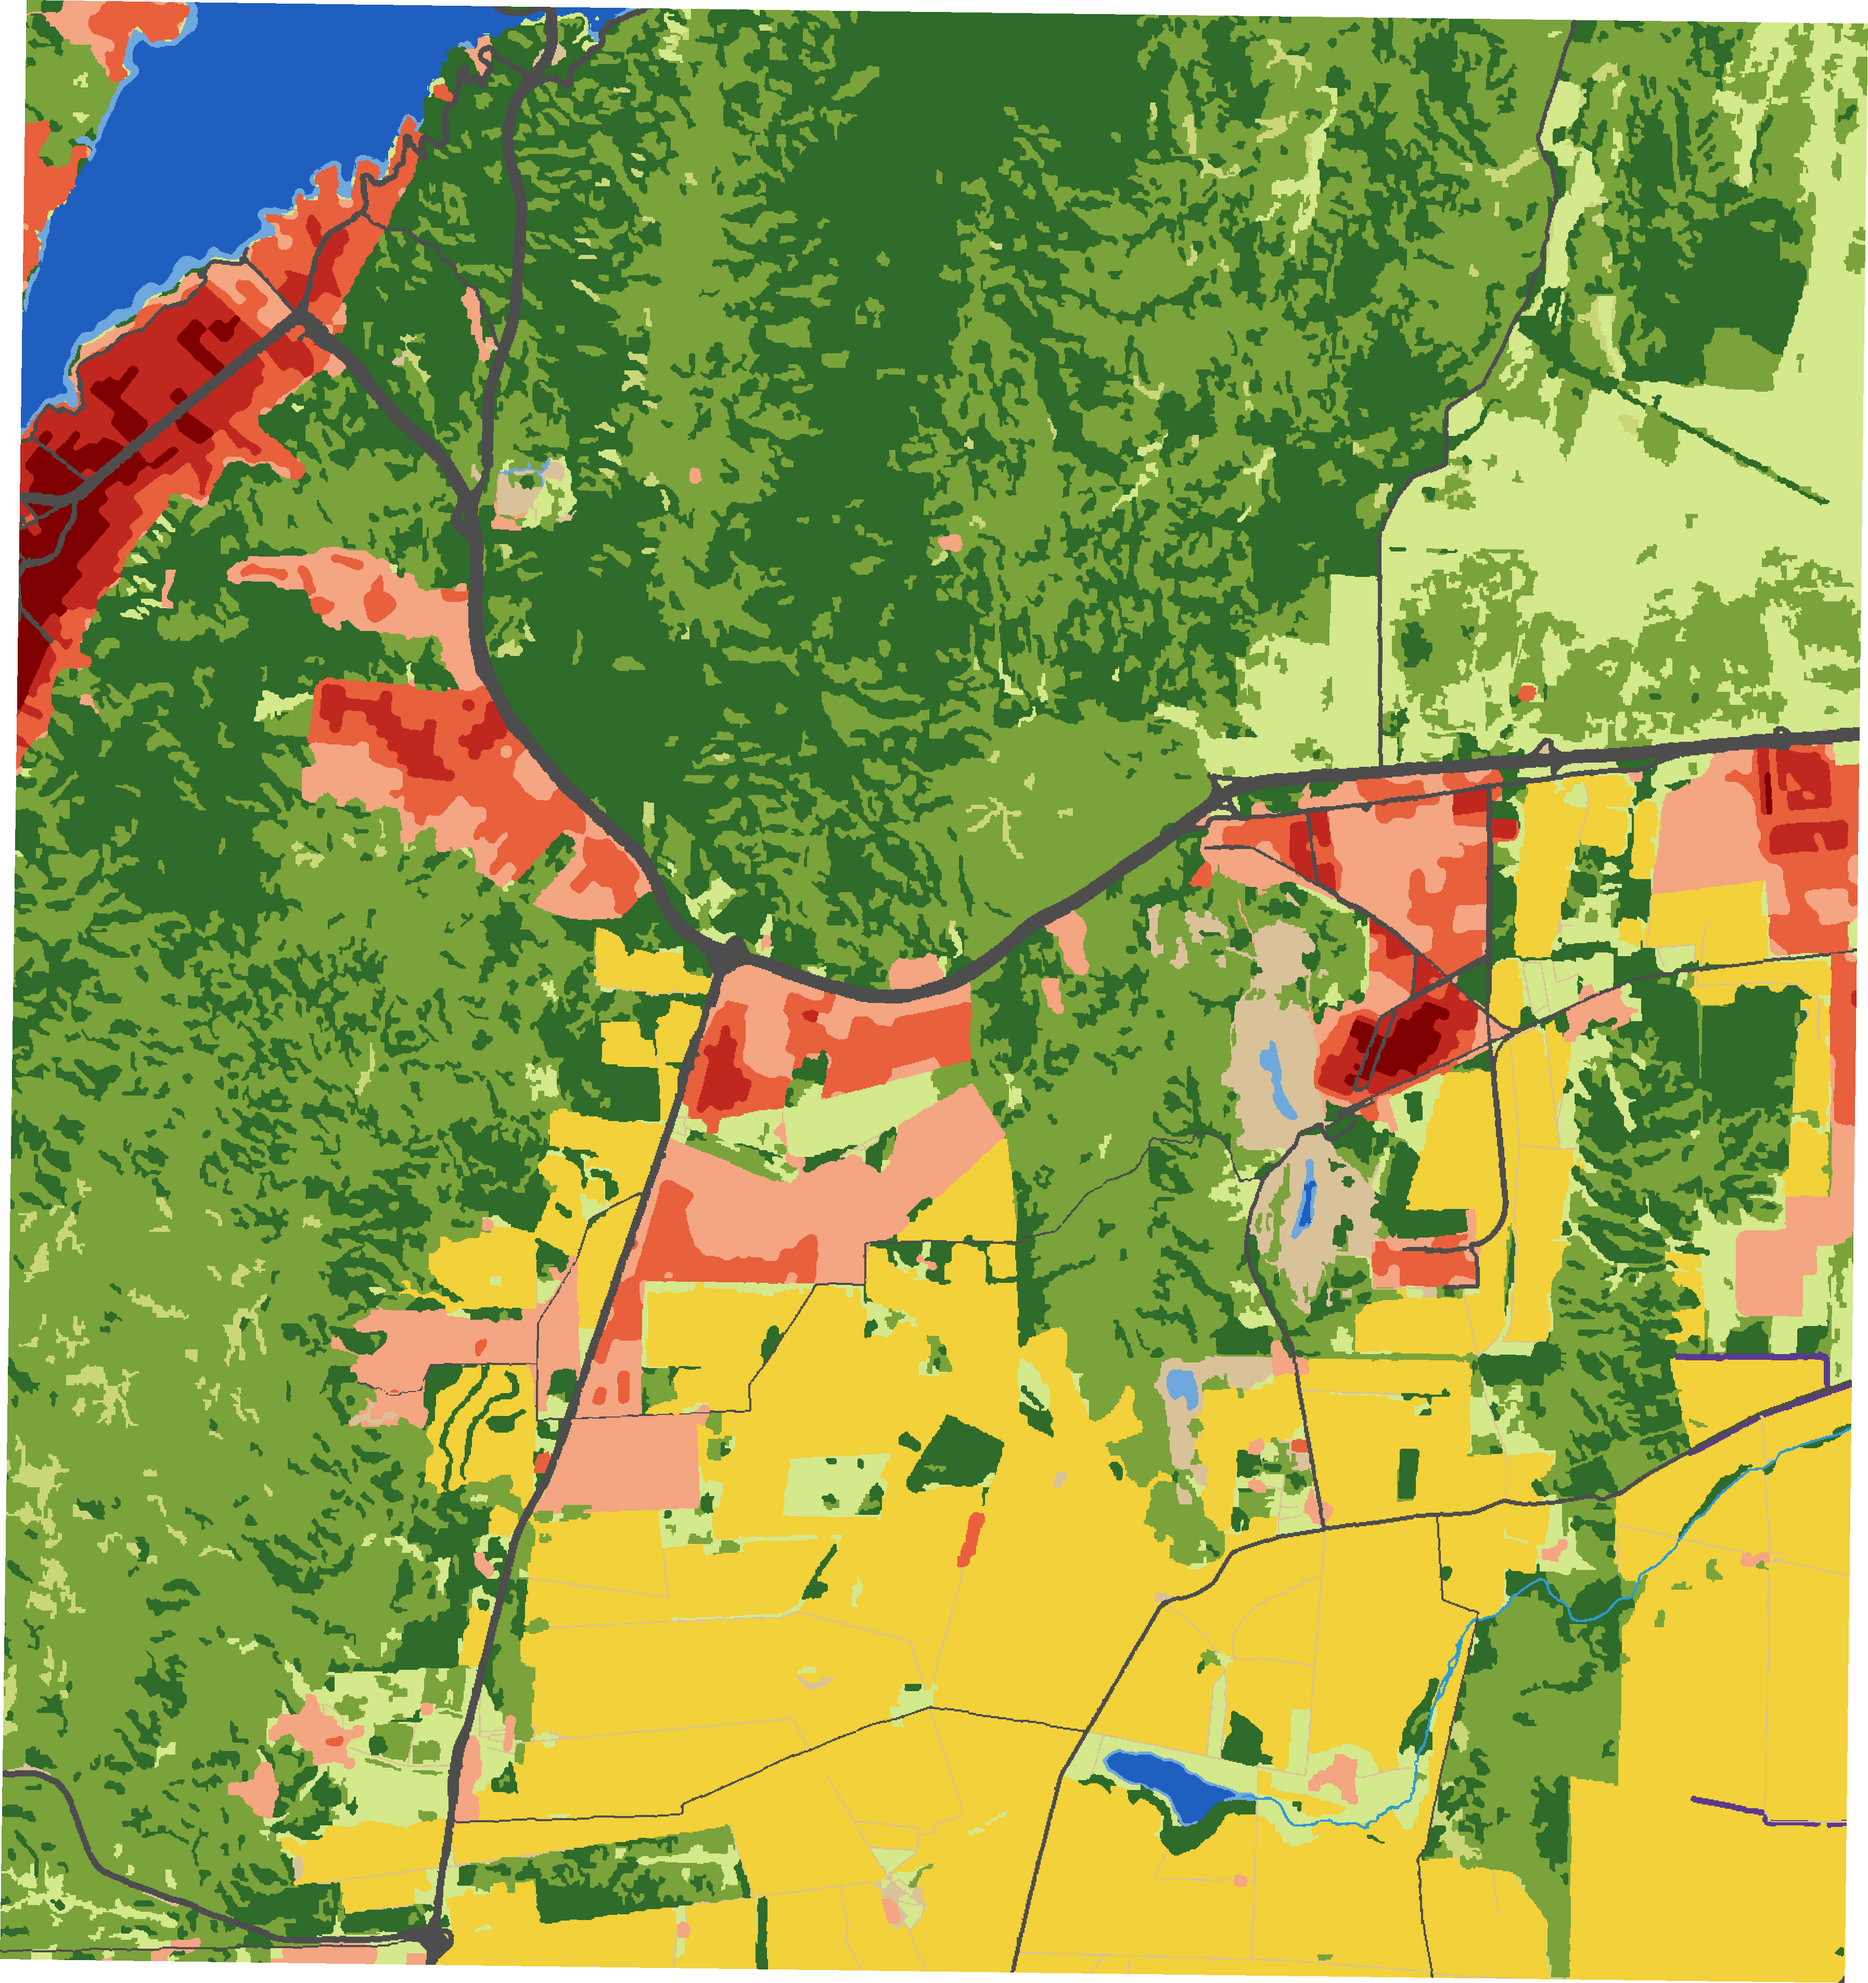
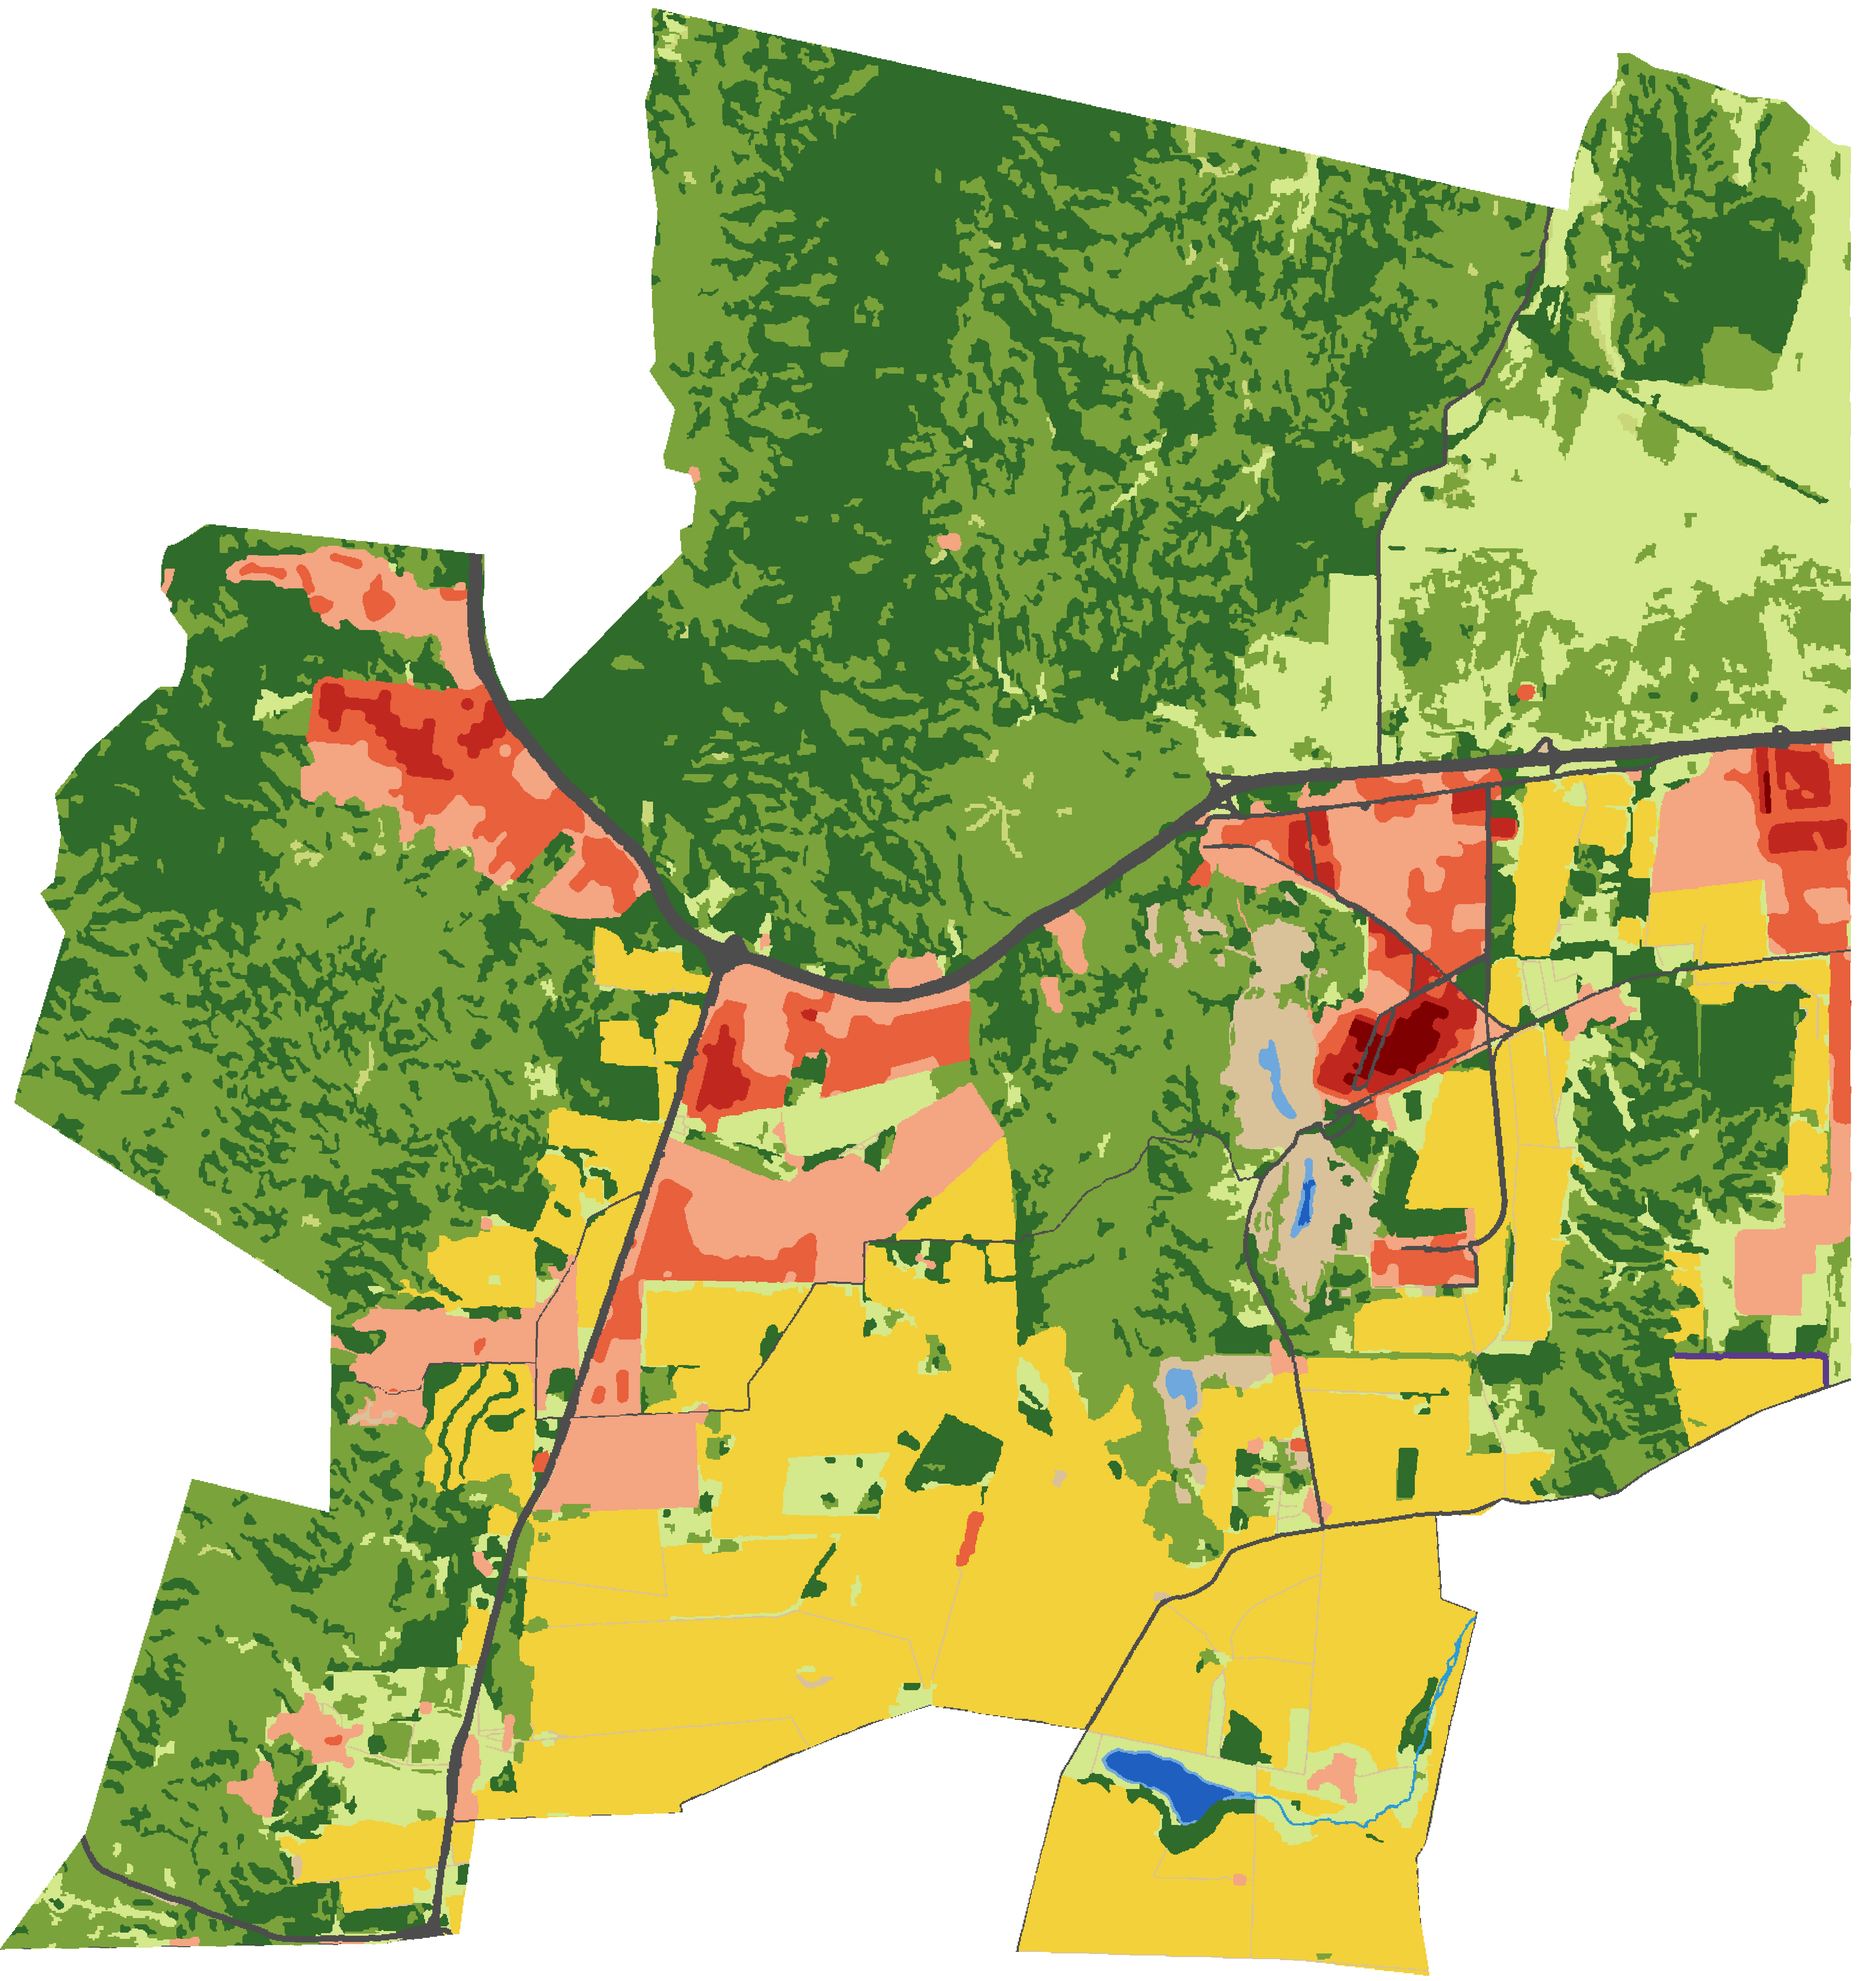
Recorta cobertura al ejido, quita mapa "Uso del suelo actual" y nota de escala de parcelas
Claude-Session: https://claude.ai/code/session_01QU87HsDwudKZ2N8vtsYwc4

diff --git a/index.html b/index.html
@@ -38,7 +38,7 @@
   .li{display:flex;align-items:center;gap:8px;line-height:1.25}
   .sw{width:22px;height:14px;border:1px solid #232323;flex:none;border-radius:2px}
   .lg-grp{font-size:11px;text-transform:uppercase;letter-spacing:.5px;color:var(--muted);margin-top:4px}
-  .li .ha{margin-left:auto;color:var(--muted);font-variant-numeric:tabular-nums;font-size:12px;padding-left:8px}
+  .li .ha{margin-left:auto;white-space:nowrap;color:var(--muted);font-variant-numeric:tabular-nums;font-size:12px;padding-left:8px}
   .cob{image-rendering:pixelated;image-rendering:crisp-edges}
   .sw.line{height:0;border:0;border-top:3px solid #ff3333;border-radius:0}
   .sw.circ{width:18px;height:18px;border-radius:50%;background:rgba(20,20,20,.72);border:1.5px solid #fff;
@@ -84,7 +84,7 @@
 <div id="map"></div>
 <header>
   <h1>Malagueño · Mapas territoriales</h1>
-  <p>Parcelas, uso del suelo actual, usos del suelo IPLAM y cobertura 2024–2025</p>
+  <p>Parcelas, usos del suelo IPLAM y cobertura y uso actual del suelo 2024–2025</p>
 </header>
 
 <div id="panel">
@@ -94,21 +94,15 @@
       <label class="maprow"><input type="checkbox" data-map="m1" checked>
         <div><div class="t">1 · Parcelas</div><div class="s">Estado de edificación (catastro)</div></div></label>
       <div class="legend" id="lg-m1"></div>
-      <div class="note">Número de parcela desde escala 1:2.500; más alejado, sólo el número de manzana.</div>
-    </div>
-    <div class="sec">
-      <label class="maprow"><input type="checkbox" data-map="m2">
-        <div><div class="t">2 · Uso del suelo actual</div><div class="s">Canteras, ANP, industria y urbanizado</div></div></label>
-      <div class="legend off" id="lg-m2"></div>
     </div>
     <div class="sec">
       <label class="maprow"><input type="checkbox" data-map="m3">
-        <div><div class="t">3 · Usos del suelo IPLAM</div><div class="s">Plan Metropolitano de Córdoba</div></div></label>
+        <div><div class="t">2 · Usos del suelo IPLAM</div><div class="s">Plan Metropolitano de Córdoba</div></div></label>
       <div class="legend off" id="lg-m3"></div>
     </div>
     <div class="sec">
       <label class="maprow"><input type="checkbox" data-map="m4">
-        <div><div class="t">4 · Cobertura y uso actual del suelo 2024–2025</div><div class="s">IDECOR · ráster de 10 m · superficie dentro del radio urbano</div></div></label>
+        <div><div class="t">3 · Cobertura y uso actual del suelo 2024–2025</div><div class="s">IDECOR · ráster de 10 m · superficie dentro del radio urbano</div></div></label>
       <div class="legend off" id="lg-m4"></div>
       <div class="note">Fuente: Mapa de Cobertura y Uso del Suelo de la Provincia de Córdoba 2024–2025 (IDECOR). Tocá el mapa para ver la clase.</div>
     </div>
@@ -139,13 +133,6 @@ const C = {
     'EDIFICADO NoPH': ['#1a7ae8','Edificado'],
     'EDIFICADO PH':   ['#782173','Edificado PH'],
     'ANP':            ['#3e7821','Área natural protegida']
-  },
-  actual: {
-    cantera:   ['#a6a6a6','Cantera'],
-    anp:       ['#5cd65c','Área natural protegida (ANP)'],
-    cons:      ['#ff9900','Urbanizado consolidado'],
-    nocons:    ['#ffe599','Urbanizado no consolidado'],
-    industria: ['#9900ff','Industria']
   },
   iplam: {
     'urbanizacion_consolidada': ['#3bcb88','Urbanización consolidada'],
@@ -211,8 +198,8 @@ Object.keys(bases).forEach((k, i) => {
 });
 L.control.scale({imperial: false, position: 'bottomleft'}).addTo(map);
 
-// Panes para ordenar los mapas (IPLAM abajo, parcelas arriba, radio urbano encima de todo)
-[['m4', 405], ['m3', 410], ['m2', 420], ['m1', 430], ['radio', 450], ['labels', 460]].forEach(([n, z]) => {
+// Panes para ordenar los mapas (cobertura e IPLAM abajo, parcelas arriba, radio urbano encima de todo)
+[['m4', 405], ['m3', 410], ['m1', 430], ['radio', 450], ['labels', 460]].forEach(([n, z]) => {
   map.createPane(n).style.zIndex = z;
 });
 map.getPane('labels').style.pointerEvents = 'none';
@@ -239,19 +226,17 @@ const getJSON = u => fetch(u).then(r => { if (!r.ok) throw new Error(u); return 
 document.getElementById('lg-m1').innerHTML =
   Object.values(C.estado).map(([c, l]) => sw(c, l)).join('') +
   `<div class="li"><span class="sw circ">12</span>Número de manzana</div>`;
-document.getElementById('lg-m2').innerHTML = Object.values(C.actual).map(([c, l]) => sw(c, l)).join('');
 document.getElementById('lg-m3').innerHTML = Object.values(C.iplam).map(([c, l]) => sw(c, l)).join('');
 
 // ------------------------------------------------------------------ Capas
-const grupos = {m1: L.layerGroup(), m2: L.layerGroup(), m3: L.layerGroup(), m4: L.layerGroup()};
+const grupos = {m1: L.layerGroup(), m3: L.layerGroup(), m4: L.layerGroup()};
 let parcelas = [], manzanas = [];
 const etiquetas = L.layerGroup().addTo(map);
 
 Promise.all([
   getJSON('data/radio_urbano.geojson'), getJSON('data/parcelas.geojson'), getJSON('data/manzanas.geojson'),
-  getJSON('data/canteras.geojson'), getJSON('data/anp.geojson'), getJSON('data/residencial.geojson'),
-  getJSON('data/industria.geojson'), getJSON('data/iplam.geojson'), getJSON('data/cobertura_2024_2025.json')
-]).then(([radio, parc, mz, cant, anp, resid, ind, iplam, cob]) => {
+  getJSON('data/iplam.geojson'), getJSON('data/cobertura_2024_2025.json')
+]).then(([radio, parc, mz, iplam, cob]) => {
 
   // Radio urbano: siempre visible, en todos los mapas
   const radioLy = L.geoJSON(radio, {pane: 'radio', style: {renderer, color: '#ff3333', weight: 2.5, fill: false},
@@ -282,29 +267,7 @@ Promise.all([
     .map(f => ({ll: L.latLng(f.properties._ly, f.properties._lx), t: f.properties.parcela}));
   manzanas = mz.features.map(f => ({ll: L.latLng(f.properties._ly, f.properties._lx), t: f.properties.mz, n: f.properties.n_parcelas}));
 
-  // ---- Mapa 2: uso del suelo actual
-  L.geoJSON(anp, {pane: 'm2', style: fill(C.actual.anp[0], 0.6),
-    onEachFeature: (f, l) => { const p = f.properties; l.bindPopup(popup('Área natural protegida', [
-      ['Nombre', fmt(p.fna)], ['Categoría', fmt(p.gna)], ['Jurisdicción', fmt(p.caa)],
-      ['Administración', fmt(p.sag)], ['Dominio', fmt(p.dominio)], ['Superficie', fmt(p.ara) + ' ha'],
-      ['Año de creación', fmt(p.dct ? String(p.dct) : '')]])); }}).addTo(grupos.m2);
-  L.geoJSON(resid, {pane: 'm2',
-    style: f => fill(f.properties.Densidad === 'Consolidado' ? C.actual.cons[0] : C.actual.nocons[0], 0.75),
-    onEachFeature: (f, l) => l.bindPopup(popup('Área urbanizada', [
-      ['Uso', 'Residencial'],
-      ['Densidad', fmt(f.properties.Densidad)],
-      ['Categoría', f.properties.Densidad === 'Consolidado' ? C.actual.cons[1] : C.actual.nocons[1]]]))
-  }).addTo(grupos.m2);
-  L.geoJSON(ind, {pane: 'm2', style: fill(C.actual.industria[0], 0.75),
-    onEachFeature: (f, l) => l.bindPopup(popup('Industria', [['Uso', 'Industrial'], ['ID', fmt(f.properties.fid)]]))
-  }).addTo(grupos.m2);
-  L.geoJSON(cant, {pane: 'm2', style: fill(C.actual.cantera[0], 0.85),
-    onEachFeature: (f, l) => { const p = f.properties; l.bindPopup(popup('Cantera', [
-      ['Establecimiento', fmt(p.establecim)], ['Razón social', fmt(p.razon_soci)],
-      ['Actividad', fmt(p.actividad)], ['Material', fmt(p.material_s)],
-      ['RUAMI', fmt(p.ruami)], ['Expte. impacto ambiental', fmt(p.impacto_am)]])); }}).addTo(grupos.m2);
-
-  // ---- Mapa 3: IPLAM
+  // ---- Mapa 2: IPLAM
   L.geoJSON(iplam, {pane: 'm3',
     style: f => fill((C.iplam[f.properties.Categoria] || ['#db166f'])[0], 0.7),
     onEachFeature: (f, l) => { const p = f.properties; l.bindPopup(popup(
@@ -313,7 +276,7 @@ Promise.all([
       ['Superficie', fmt(p.Superficie, 2)],
       ['Descripción', fmt(p.Descripcio), 'desc']])); }}).addTo(grupos.m3);
 
-  // ---- Mapa 4: cobertura y uso actual del suelo 2024-2025 (ráster IDECOR reproyectado a Web Mercator)
+  // ---- Mapa 3: cobertura y uso actual del suelo 2024-2025 (ráster IDECOR reproyectado a Web Mercator)
   const fmtHa = v => v.toLocaleString('es-AR', {minimumFractionDigits: 1, maximumFractionDigits: 1}) + ' ha';
   const presentes = Object.keys(cob.stats).map(Number).sort((a, b) => a - b);
   let grp = '', html = '';

diff --git a/README.md b/README.md
@@ -1,11 +1,10 @@
 # Mapas de Malagueño
 
-Mapa web interactivo (Leaflet) con cuatro mapas temáticos del municipio de Malagueño, Córdoba:
+Mapa web interactivo (Leaflet) con tres mapas temáticos del municipio de Malagueño, Córdoba:
 
 1. **Parcelas**: estado de edificación (baldío / edificado / edificado PH). Número de parcela desde 1:2.500; más alejado, sólo el número de manzana.
-2. **Uso del suelo actual**: canteras, área natural protegida, industria, urbanizado consolidado y no consolidado.
-3. **Usos del suelo IPLAM**: Plan Metropolitano de Córdoba.
-4. **Cobertura y uso actual del suelo 2024–2025**: ráster IDECOR (10 m, 21 clases), reproyectado a Web Mercator como imagen indexada (`data/cobertura_2024_2025.png` + `data/cobertura_2024_2025.json` con límites y superficies por clase dentro del radio urbano).
+2. **Usos del suelo IPLAM**: Plan Metropolitano de Córdoba.
+3. **Cobertura y uso actual del suelo 2024–2025**: ráster IDECOR (10 m, 21 clases) recortado al ejido (radio urbano) de Malagueño, reproyectado a Web Mercator como imagen indexada (`data/cobertura_2024_2025.png` + `data/cobertura_2024_2025.json` con límites y superficies por clase dentro del radio urbano).
 
 Todos incluyen el radio urbano de Malagueño.
 
